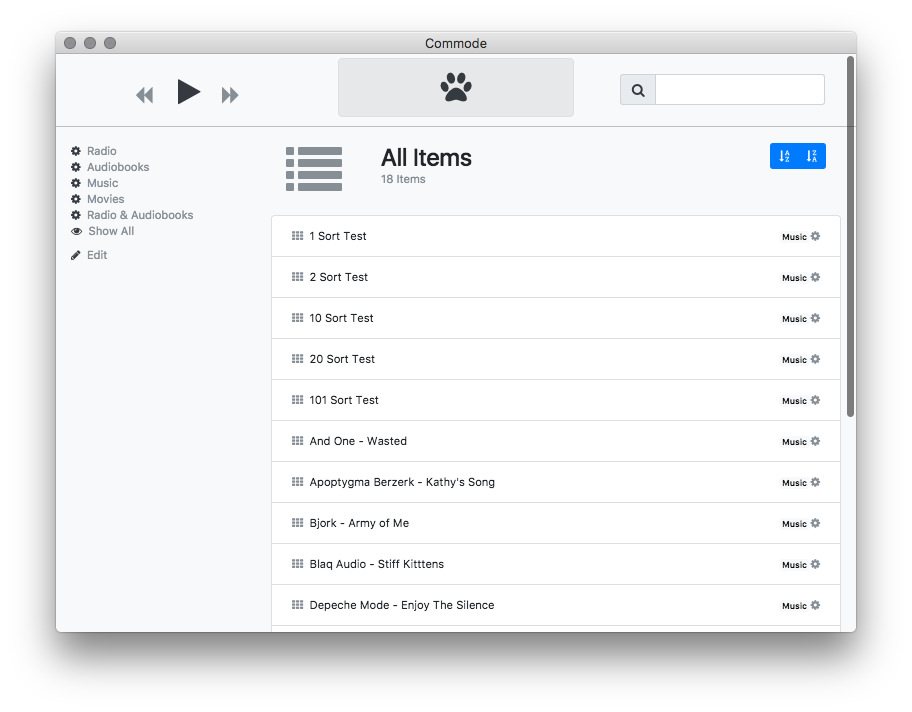
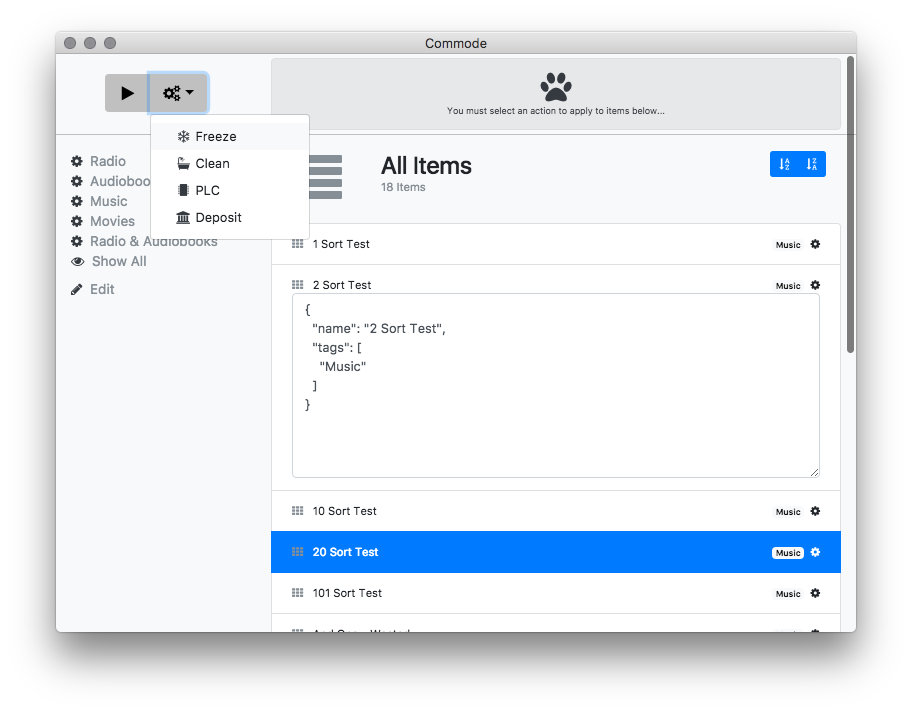
Action Handlers (work.js)

diff --git a/index.html b/index.html
@@ -34,41 +34,33 @@
 
       <div class="row" style="border-bottom: 1px solid silver;">
 
-        <div class="col-4 pt-1">
-           <div class="text-center p-3" style="font-size: .6rem;">
-             <div class="pr-2 d-inline-block"> <i class="fa fa-fw fa-backward fa-2x text-secondary"></i> </div>
-             <div class="p-1 d-inline-block"> <i class="fa fa-fw fa-play fa-3x text-dark"></i> </div>
-             <div class="p-1 d-inline-block"> <i class="fa fa-fw fa-forward fa-2x text-secondary"></i> </div>
+        <div class="col-3 pt-3 text-center">
 
-             <div class="pl-3 mb-2 btn-group btn-group-sm d-inline-block">
-               <button type="button" class="btn btn-fade dropdown-toggle" data-toggle="dropdown" aria-haspopup="true" aria-expanded="false">
-                 <i class="fa fa-gears fa-1x text-dark"></i>
-               </button>
-               <div class="dropdown-menu dropdown-menu-sm">
 
-                 <button v-for="action in actions" v-on:click="selectAction(action)" class="dropdown-item" type="button">{{action.name}}</button>
+          <div class="btn-group pt-1" role="group" aria-label="Button group with nested dropdown">
+            <button v-on:click="play" type="button" class="btn btn-fade"><i class="fa fa-fw fa-play"></i></button>
+            <div class="btn-group" role="group">
+              <button id="btnGroupDrop1" type="button" class="btn btn-fade dropdown-toggle" data-toggle="dropdown" aria-haspopup="true" aria-expanded="false">
+                <i class="fa fa-gears fa-1x"></i>
+              </button>
+              <div class="dropdown-menu" aria-labelledby="btnGroupDrop1">
+                <button v-for="action in actions" v-on:click="selectAction(action)" class="dropdown-item small" type="button"><i :class="'fa fa-fw text-dark fa-'+action.icon"></i> {{action.name}}</button>
+              </div>
+            </div>
+          </div>
 
-               </div>
-             </div>
 
-           </div>
+
         </div>
 
-        <div class="col-4 pt-1">
-           <div class="alert alert-secondary text-center mb-0" role="alert">
-             <i class="fa fa-paw fa-3x text-dark"></i>
+        <div class="col-9 pt-1">
+           <div class="alert alert-secondary text-center mb-1" role="alert">
+             <i :class="'fa fa-3x text-dark fa-'+(selectedAction.icon||'paw')"></i>
              <div class="small">{{status}}</div>
            </div>
         </div>
 
-        <div class="col-4 pt-1">
 
-          <div class="input-group input-group-sm p-3">
-            <span class="input-group-addon" id="basic-addon1"><i class="fa fa-fw fa-search text-dark"></i></span>
-            <input type="text" class="form-control" placeholder="" aria-label="" aria-describedby="basic-addon1">
-          </div>
-
-        </div>
       </div>
 
       <div class="pt-3 bg-light">
@@ -76,11 +68,10 @@
           <div class="col-md-3 pb-3">
 
             <ul class="nav flex-column pb-2">
-              <li v-for="item in computedFilters" class="nav-item" v-on:click="select(item)"><a class="nav-link text-muted p-0" href="#"><i class="fa fa-cog text-dark"></i>&nbsp; {{ item.name }}</a></li>
-              <li class="nav-item" v-on:click="deselect"><a class="nav-link text-muted p-0" href="#"><i class="fa fa-eye text-dark"></i>&nbsp; Show All</a></li>
+              <li v-for="item in computedFilters" class="nav-item" v-on:click="select(item)"><a class="nav-link text-muted p-0" style="font-size: 1.2em;" href="#"><i class="fa fa-cog text-dark"></i>&nbsp; {{ item.name }}</a></li>
+              <li class="nav-item" v-on:click="deselect"><a class="nav-link text-muted p-0" style="font-size: 1.2em;" href="#"><i class="fa fa-eye text-dark"></i>&nbsp; Show All</a></li>
             </ul>
-
-            <div class="nav-item" v-on:click="filtersModal"><a class="nav-link text-muted p-0" href="#"><i class="fa fa-pencil text-dark"></i>&nbsp; Edit</a></div>
+            <div class="nav-item" v-on:click="filtersModal"><a class="nav-link text-muted p-0" style="font-size: 1.2em;" href="#"><i class="fa fa-pencil text-dark"></i>&nbsp; Edit</a></div>
 
           </div>
 
@@ -120,18 +111,13 @@
               <div class="row pb-3">
                 <div class="col-12 p-0">
 
-
                   <ul class="list-group">
+                    <li v-for="item in computedDatabase" v-on:click="selectItem(item)" :class="'list-group-item' + ' ' + (selectedItem==item?'active':'')">
 
-                    <li v-for="item in computedDatabase" v-on:click="selectItem(item)" class="list-group-item">
-                      <i v-show="selectedItem !== item" class="fa fa-th text-muted"></i>
-                      <i v-show="selectedItem == item" class="fa fa-th text-primary"></i>
-                      &nbsp; {{ item.name }}
+                      <i class="fa fa-th"></i> &nbsp; {{ item.name }}
 
-                      <div v-on:click="toggle(item)" class="float-right"><i class="fa fa-cog text-muted"></i></div>
+                      <div v-on:click="toggle(item)" class="float-right">&nbsp; <i class="fa fa-cog"></i></div>
                       <div class="float-right"> <span v-for="tag in item.tags" class="badge badge-light">{{tag}}</span> </div>
-
-
                       <form v-show="opened[item.name] === true">
                         <div class="row">
                           <div class="col">
@@ -139,11 +125,8 @@
                           </div>
                         </div>
                       </form>
-
                     </li>
-
                   </ul>
-
 
                 </div>
               </div>
@@ -169,14 +152,12 @@
           </button>
           </div>
           <div class="modal-body">
-
             <form>
               <div class="form-group">
                 <label for="exampleFormControlTextarea1">Example textarea</label>
                 <textarea class="form-control" style="font-size: .8rem;" id="exampleFormControlTextarea1" rows="9">{{ JSON.stringify(filters, function(key, val) { if (typeof val === 'function') { return val + ''; } return val; }, '  ') }}</textarea>
               </div>
             </form>
-
           </div>
           <div class="modal-footer">
             <button type="button" class="btn btn-sm btn-secondary" data-dismiss="modal">Close</button>

diff --git a/renderer.js b/renderer.js
@@ -20,8 +20,8 @@ new Vue({
     sorter: null,
     status: null,
 
-    selectedItem: null,
-    selectedAction: null,
+    selectedItem: {},
+    selectedAction: {},
 
     filters: [],
     sorters: [],
@@ -56,7 +56,28 @@ new Vue({
       $('#filtersModal').modal({})
     },
 
+    play:function (e) {
+      let app = this;
 
+      if(!this.selectedAction.event){
+        return myEmitter.emit('status', 'You must select an action to apply to items below...');
+      }
+
+      let jobs = Promise.resolve();
+      this.computedDatabase.forEach(item => {
+        jobs = jobs.then(i=>new Promise(function(resolve, reject) {
+          let payload = Object.assign({app, item, resolve, reject},item,app.selectedAction.assign);
+          myEmitter.emit(app.selectedAction.event, payload)
+        }));
+
+      });
+      jobs.then(i=>{
+        myEmitter.emit('status', 'Jobs Done...');
+        this.deselectItem()
+        this.deselectAction()
+      })
+
+    },
 
     toggle:  function (e) {
       console.log(e.name)
@@ -74,9 +95,17 @@ new Vue({
       myEmitter.emit('status', `${e.name}`)
       this.selectedItem = e;
     },
+    deselectItem: function (e) {
+      myEmitter.emit('status', ``)
+      this.selectedItem = {};
+    },
+
     selectAction: function (e) {
-      myEmitter.emit('status', `Selecte ${e.name} Action, press play to apply it to the items below...`)
+      myEmitter.emit('status', `Selected ${e.name} Action, press play to apply it to the items below...`)
       this.selectedAction = e;
+    },
+    deselectAction: function (e) {
+      this.selectedAction = {};
     },
 
 
@@ -116,6 +145,8 @@ new Vue({
         require(path.join(dir,'sort.js')).forEach( i => this.sorters.push(i) );
         require(path.join(dir,'filter.js')).forEach( i => this.filters.push(i) );
         require(path.join(dir,'data.js')).forEach( i => this.db.push(i) );
+
+        require(path.join(dir,'work.js'))({emitter:myEmitter})
 
 
         myEmitter.emit('status', 'System Ready...')

diff --git a/sample-database/action.js b/sample-database/action.js
@@ -1,8 +1,8 @@
 module.exports = [
 
-  { name: 'Delete', event:"delete-item", assign:{}},
-  { name: 'Resize', event:"resize-item", assign:{}},
-  { name: 'Downsample', event:"downsample-item", assign:{}},
-  { name: 'Nuke', event:"nuke-item", assign:{}},
+  { name: 'Freeze', icon:'snowflake-o', event:'example', assign:{}},
+  { name: 'Clean', icon:'bath', event:'example', assign:{}},
+  { name: 'PLC', icon:'microchip', event:'example', assign:{}},
+  { name: 'Deposit', icon:'bank', event:'example', assign:{}},
 
 ];

diff --git a/sample-database/work.js b/sample-database/work.js
@@ -1,0 +1,25 @@
+module.exports = function({ emitter }) {
+
+
+
+  emitter.on('example', function({app, item, name, resolve, reject }) {
+
+    // make an indication that you are working on this item
+    app.selectItem(item);
+
+    // in this example we uppercase the name of the item...
+    item.name = item.name.toUpperCase();
+
+    setTimeout(function(){
+      console.log( 'Working on %s.', name );
+      // When the thing is done, call resolve...
+      resolve();
+    },200);
+
+
+  });
+
+
+
+
+}

diff --git a/README.md b/README.md
@@ -8,11 +8,39 @@ Electron-Vue based, iTunes like UI, for file tagging, restructuring, processing,
 
 ## Theory of Operation
 
+- iTunes like view of your data
 - You must prepare a directory with data.js, sort.js and filter.js
 - .js before .json, program will seek a .js data file that may load json.
 - You must create data.js/on based on your own data set.
 
-## What you get
+## Action Handler Example (work.js)
 
-- iTunes like view of your data
--
+When you hit play Promise's resolve, reject is sent to an emitter handler,
+simply perform your operation and call resolve();
+
+```JavaScript
+
+emitter.on('example', function({app, item, name, resolve, reject }) {
+
+  // make an indication that you are working on this item
+  app.selectItem(item);
+
+  // in this example we uppercase the name of the item...
+  item.name = item.name.toUpperCase();
+
+  setTimeout(function(){
+    console.log( 'Working on %s.', name );
+    // When the thing is done, call resolve...
+    resolve();
+  },200);
+
+
+});
+
+```
+
+## Todo
+
+- More samples
+- drop built-in filter editor (just edit filter.js)
+- maybe drop manual item editor in favor of actions?
